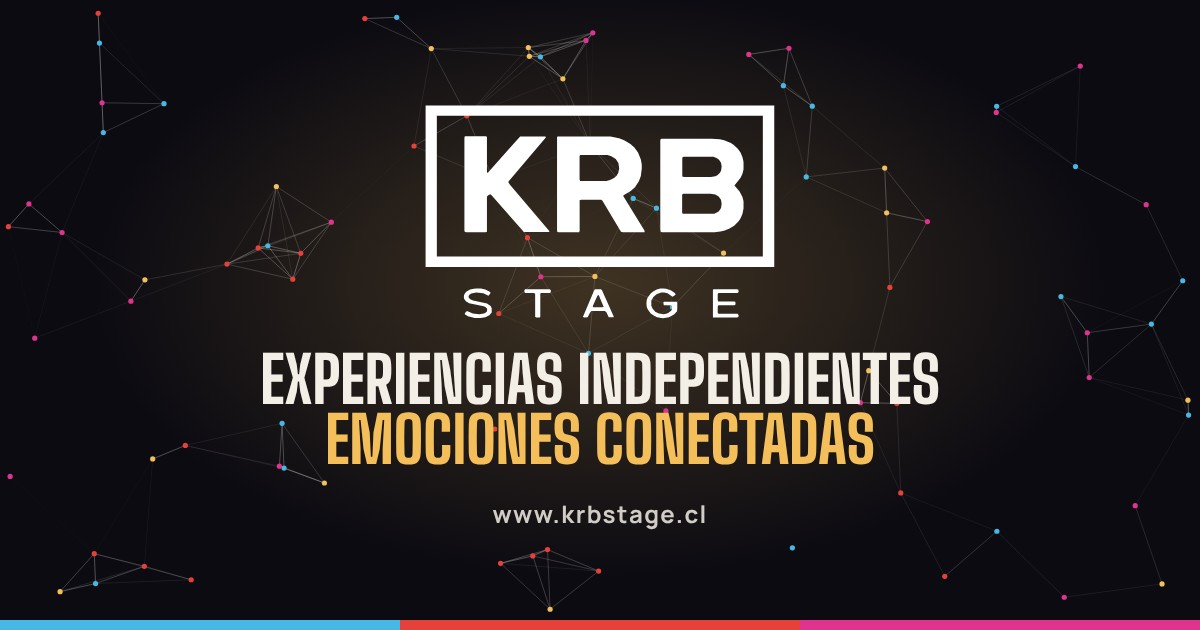
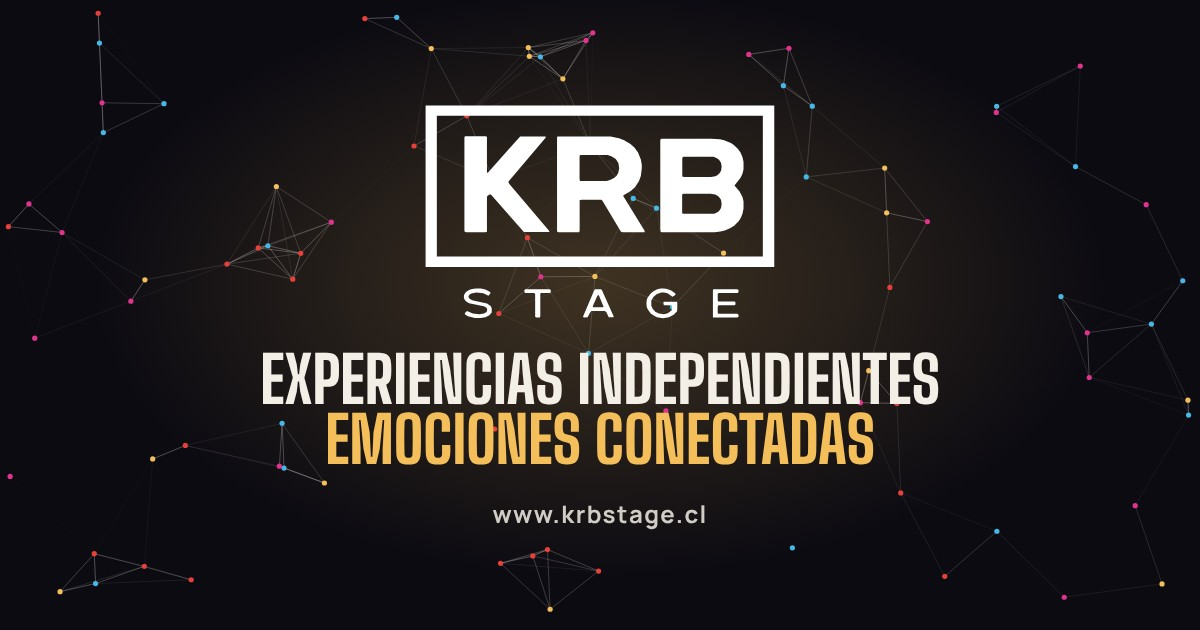
Página web: imagen para compartir sin la franja de colores
Claude-Session: https://claude.ai/code/session_01LKJaPxTaAn6biDBG3JnbbJ

Changed region(s): [[0.0, 0.9651, 1.0, 1.0]]

diff --git a/krbstage-web/index.html b/krbstage-web/index.html
@@ -9,8 +9,8 @@
 <meta property="og:description" content="Experiencias independientes. Emociones conectadas.">
 <meta property="og:type" content="website">
 <meta property="og:url" content="https://www.krbstage.cl/">
-<meta property="og:image" content="https://www.krbstage.cl/compartir.jpg?v=4">
-<meta property="og:image:secure_url" content="https://www.krbstage.cl/compartir.jpg?v=4">
+<meta property="og:image" content="https://www.krbstage.cl/compartir.jpg?v=5">
+<meta property="og:image:secure_url" content="https://www.krbstage.cl/compartir.jpg?v=5">
 <meta property="og:image:type" content="image/jpeg">
 <meta property="og:image:width" content="1200">
 <meta property="og:image:height" content="630">
@@ -18,7 +18,7 @@
 <meta property="og:site_name" content="KRB Stage">
 <meta property="og:locale" content="es_CL">
 <meta name="twitter:card" content="summary_large_image">
-<meta name="twitter:image" content="https://www.krbstage.cl/compartir.jpg?v=4">
+<meta name="twitter:image" content="https://www.krbstage.cl/compartir.jpg?v=5">
 <link rel="canonical" href="https://www.krbstage.cl/">
 <meta name="theme-color" content="#0c0b12">
 <link rel="icon" href="krb-stage.svg" type="image/svg+xml">
